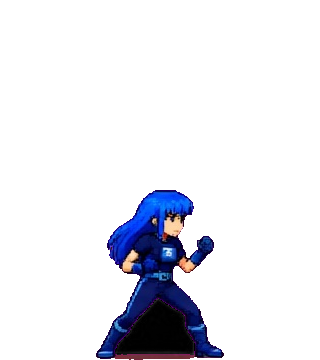
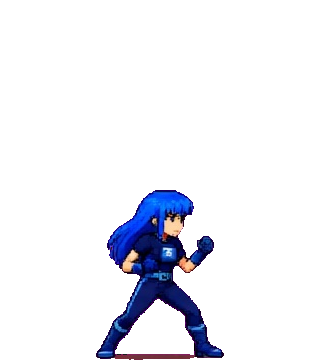
Sprites sem gerar imagem nova: Winx.exe recortada de novo, Kotlin maior, Guarda Digital no tamanho certo
- Winx.exe: o fundo entre as pernas ficava preso no recorte (triangulo
  escuro); integrate_fighter com 'holes' apaga os buracos de fundo
- Kotlin: era bem menor que o elenco; nova opcao perFighter.scale no
  motor (pivo no pe), Kotlin a 1.22
- Guarda Digital: a folha foi refeita no tamanho certo mas continuava com
  o encolhimento antigo por pose (0.7-0.85); saiu so dela (Grika fica)

Claude-Session: https://claude.ai/code/session_01SiaquMaGUrkfDxfxtSpwxQ

Changed region(s): [[0.3438, 0.825, 0.625, 1.0]]

diff --git a/assets/sprites/layout.js b/assets/sprites/layout.js
@@ -139,7 +139,7 @@ SPRITE_LAYOUT.perFighter['nina-vector'] = Object.assign(SPRITE_LAYOUT.perFighter
 
 /* V14a: Grika e Guarda Digital — mesma normalizacao completa das outras
    folhas refinadas (auditoria pesada apontou special/block/win altas). */
-['grika', 'guarda-digital'].forEach((id) => {
+['grika'].forEach((id) => { /* Guarda saiu (nov/2026): a folha dela foi refeita no tamanho certo e o encolhimento a deixava pequena */
   SPRITE_LAYOUT.perFighter[id] = Object.assign(SPRITE_LAYOUT.perFighter[id] || {}, {
     poseScale: {
       block: 0.7, crouch: 0.7, cpunch: 0.75, ckick: 0.75, hit: 0.8,
@@ -148,5 +148,10 @@ SPRITE_LAYOUT.perFighter['nina-vector'] = Object.assign(SPRITE_LAYOUT.perFighter
     },
   });
 });
+
+/* nov/2026: Kotlin era bem menor que o elenco; desenhada 22% maior (pivo no pe). */
+SPRITE_LAYOUT.perFighter.kotlin = Object.assign(SPRITE_LAYOUT.perFighter.kotlin || {}, { scale: 1.22 });
+SPRITE_LAYOUT.ver = SPRITE_LAYOUT.ver || {};
+SPRITE_LAYOUT.ver['winx-exe'] = 'v79-winx-recorte';
 
 /* Fim do layout. */

diff --git a/index.html b/index.html
@@ -475,7 +475,7 @@
     <div class="turn-phone"><b>GIRE O CELULAR</b><p>A luta é na horizontal. A arena fica no meio e os botões nos cantos.</p></div>
   </div>
 
-  <script src="assets/sprites/layout.js?v=v47-maresprites"></script>
+  <script src="assets/sprites/layout.js?v=v79-sprites"></script>
   <script>
     /* Blindagem contra layout.js velho em cache: os arquivos de dados
        (fighters-v7..v11) escrevem em SPRITE_LAYOUT.files / .perFighter,
@@ -566,7 +566,7 @@
   <script src="js/data/events.js?v=v47-maresprites"></script>
   <script src="js/data/stages-events.js?v=v47-maresprites"></script>
   <script src="js/data/stages-brasil.js?v=v47-maresprites"></script>
-  <script src="js/engine/sprites.js?v=v69-acc"></script>
+  <script src="js/engine/sprites.js?v=v79-sprites"></script>
   <script src="js/engine/fx.js?v=v74-kernor"></script>
   <script src="js/data/voice-book.js?v=v47-maresprites"></script>
   <script src="js/engine/audio.js?v=v47-maresprites"></script>

diff --git a/js/engine/sprites.js b/js/engine/sprites.js
@@ -288,7 +288,8 @@ const SpriteGen = {
     // poseScale por lutador (ex.: hit compacto da Mis/Kimi, pivô no pé).
     const own = L.perFighter && L.perFighter[id];
     const poseScale = own && own.poseScale && own.poseScale[pose];
-    const sc = scale || poseScale || L.drawScale;
+    /* own.scale: lutador desenhado maior/menor por inteiro (pivo no pe), ex.: Kotlin */
+    const sc = scale || poseScale || (own && own.scale) || L.drawScale;
     const fw = L.frameW;
     const fh = L.frameH;
     const n = this.count(pose, id);

diff --git a/tools/integrate_fighter.py b/tools/integrate_fighter.py
@@ -1104,6 +1104,7 @@ FIGHTERS = {
         'dark_bg': True,
     },
     'winx-exe': {
+        'holes': True,  # o fundo entre as pernas ficava preso (triangulo escuro)
         'sheet': 'winx.exe reformulada.jpg',
         'abilities': 'habilidades-dev-veterano.png',
         'abilities_keep': True,
